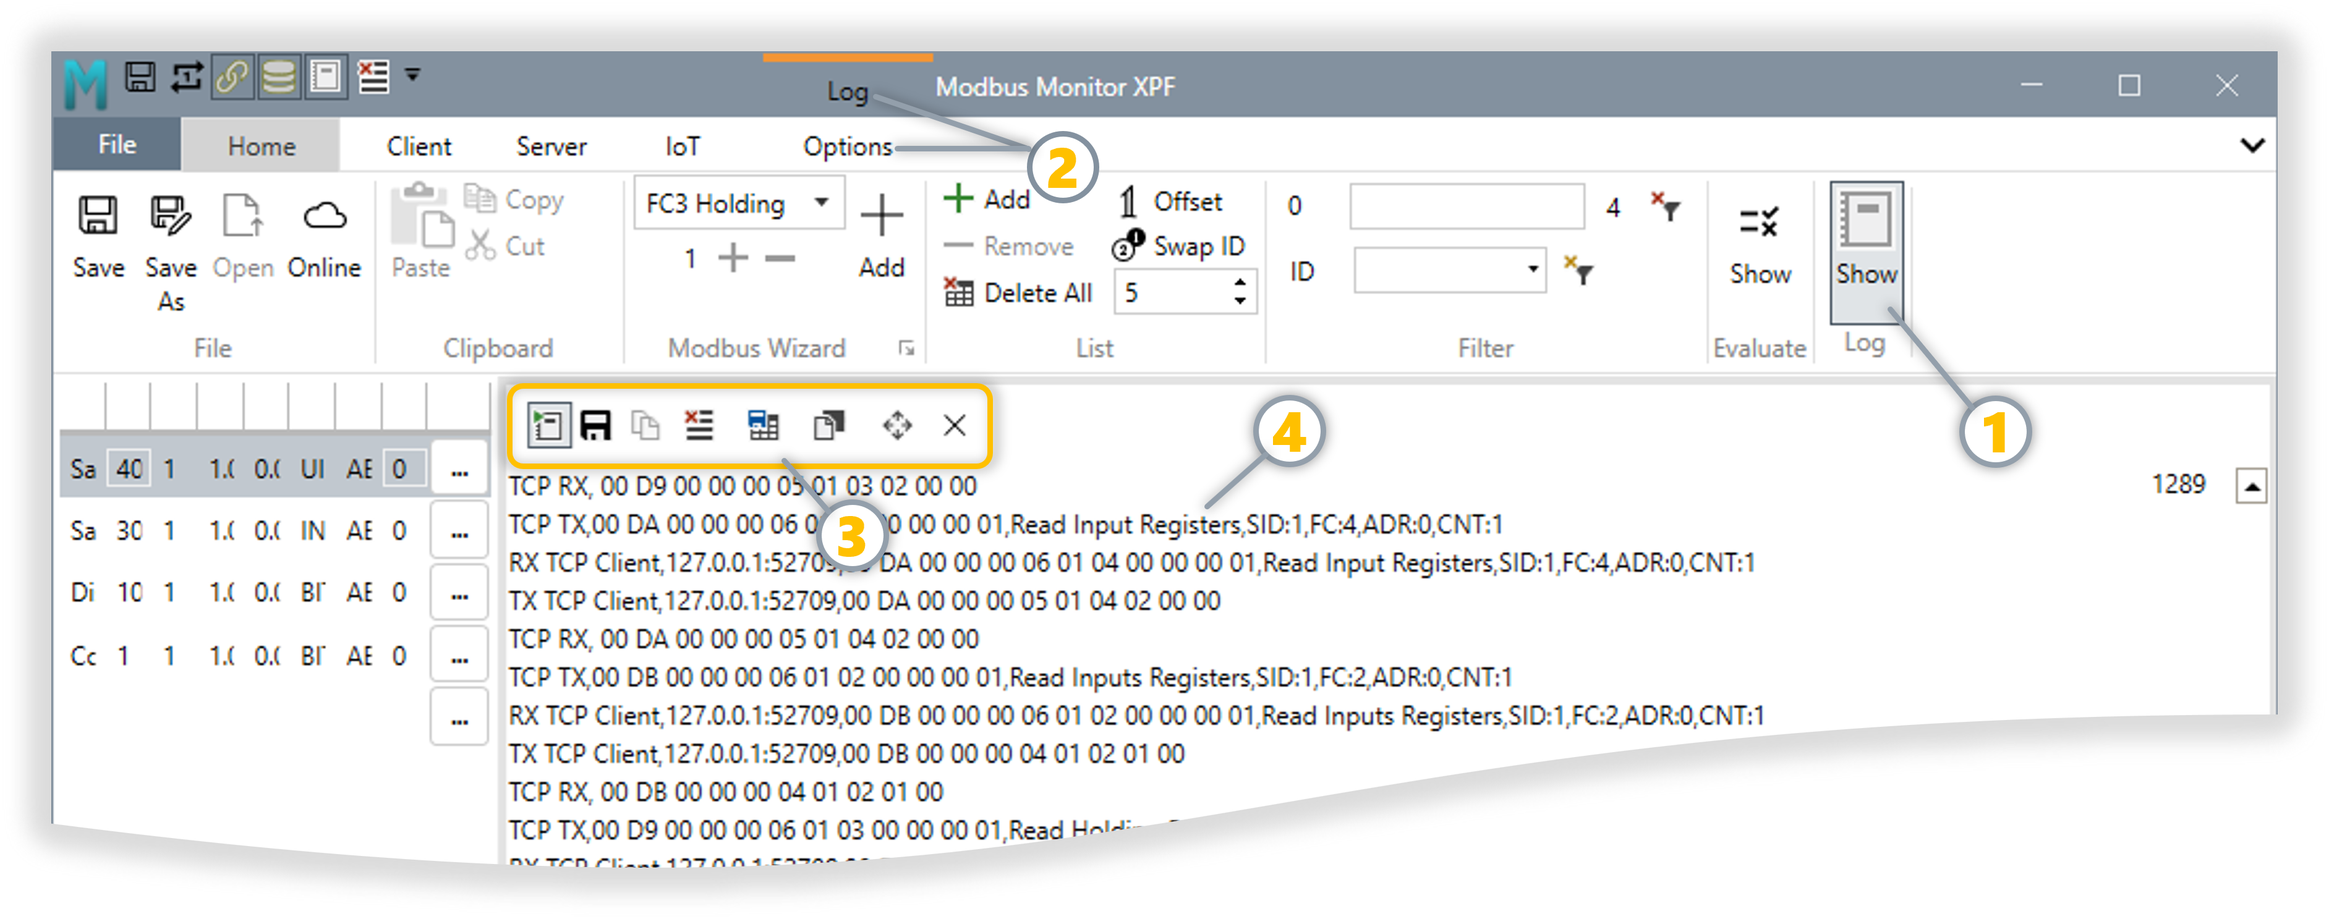
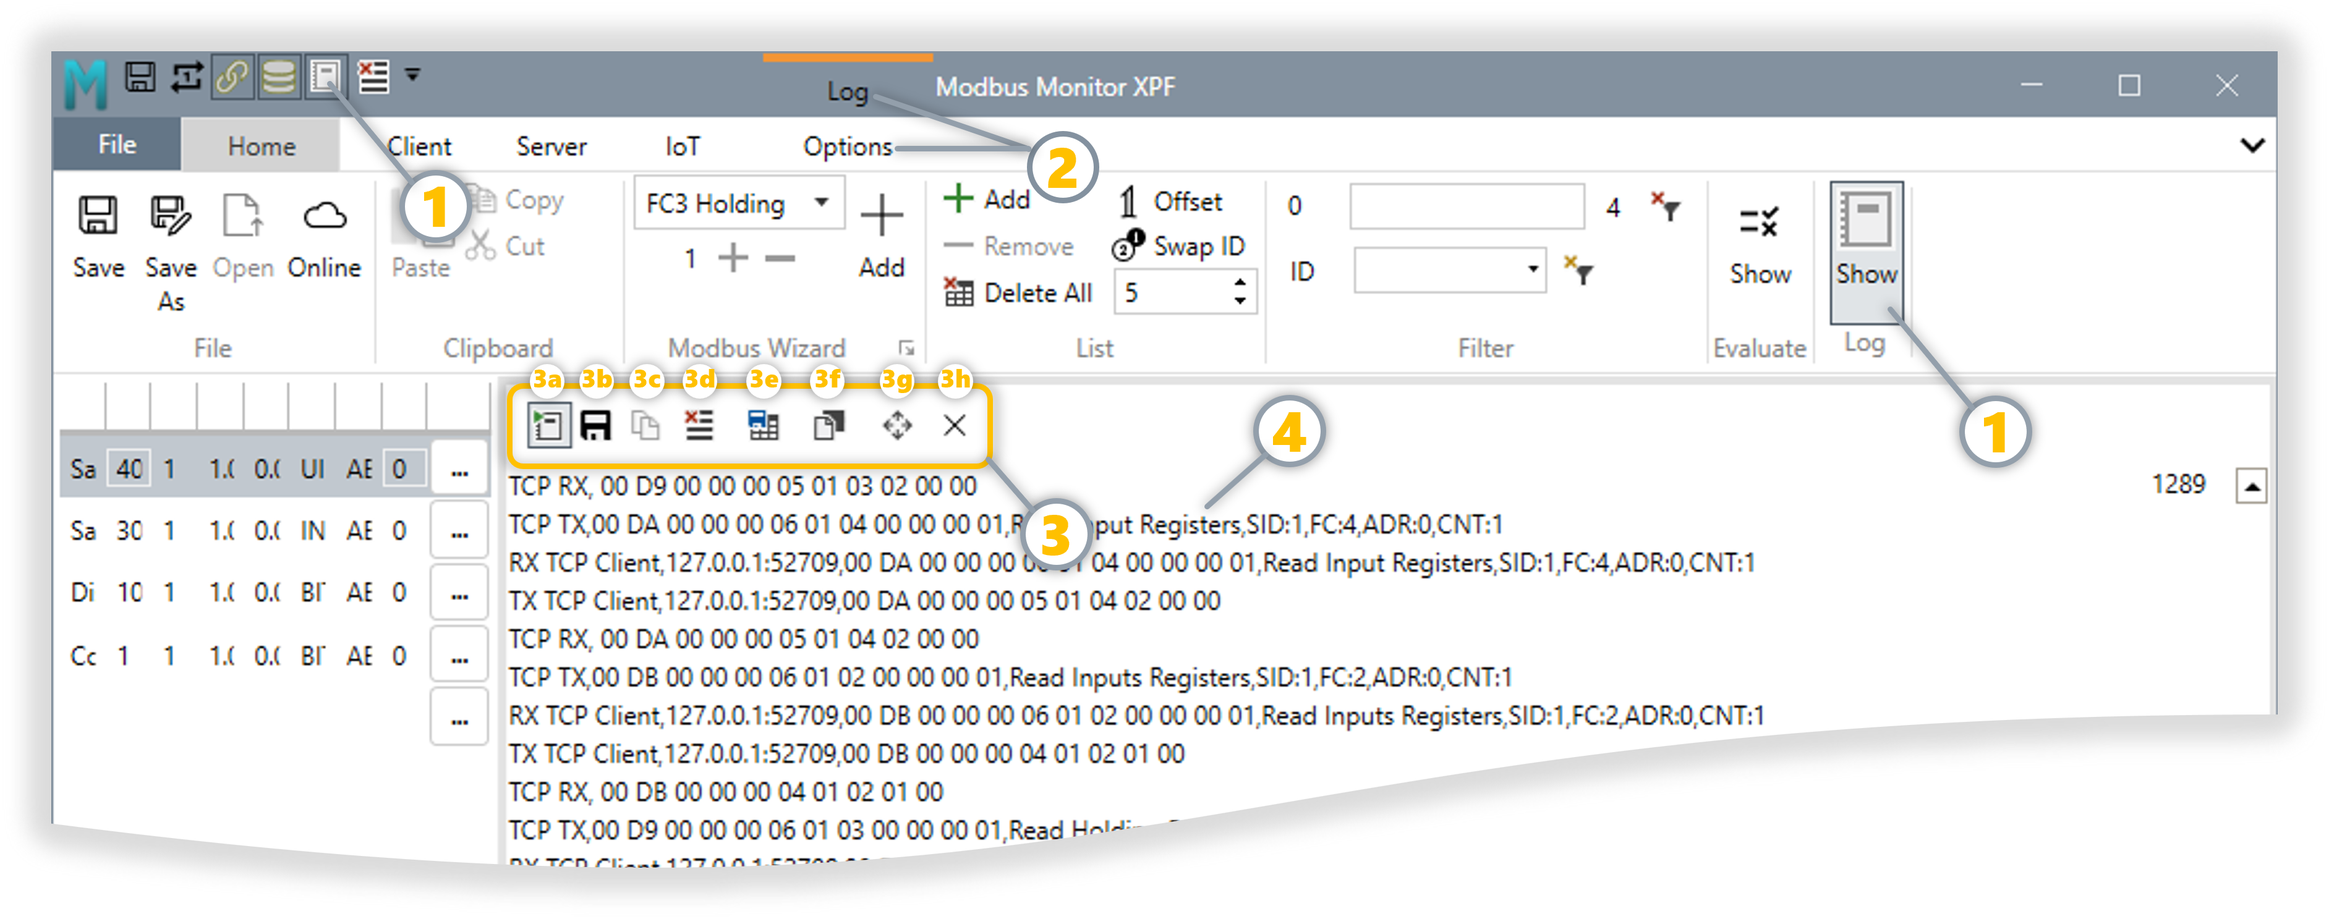
updated log group

diff --git a/docs/products/xpf/user-guide.md b/docs/products/xpf/user-guide.md
@@ -501,17 +501,17 @@ When you launch Modbus Monitor XPF for the first time, the **License window appe
 The main application window of Modbus Monitor XPF is organized into several key sections that work together to provide a comprehensive Modbus communication interface.
 
 ![XPF Application Window with numbered annotations showing Quick Access Toolbar, Ribbon Tabs, Command Groups, Dialog Launcher, and Window Portal Area](../../assets/screenshots/xpf-application-window-annotated.png){ .screenshot-shadow }
-*Figure 3.1: Main application interface showing five key areas (①②③④⑤)*
+*Figure 3.1: Main application interface showing five key areas (1, 2, 3, 4, 5)*
 
 **Interface Component Structure:**
 
 ```mermaid
 graph TB
-    QAT["① Quick Access Toolbar<br/>Customizable one-click commands<br/>Save • Open • Read • Start • Show"]
-    TABS["② Ribbon Tabs<br/>File • Home • Client • Server • IoT"]
-    GROUPS["③ Command Groups<br/>Clipboard • Modbus Wizard • List<br/>Filter • Evaluate • Log"]
-    LAUNCHER["④ Dialog Launcher<br/>Small arrows in group corners<br/>Access extended options"]
-    PORTAL["⑤ Window Portal Area<br/>Monitor Points • Log • Chart • Online Maps"]
+    QAT["1 Quick Access Toolbar<br/>Customizable one-click commands<br/>Save • Open • Read • Start • Show"]
+    TABS["2 Ribbon Tabs<br/>File • Home • Client • Server • IoT"]
+    GROUPS["3 Command Groups<br/>Clipboard • Modbus Wizard • List<br/>Filter • Evaluate • Log"]
+    LAUNCHER["4 Dialog Launcher<br/>Small arrows in group corners<br/>Access extended options"]
+    PORTAL["5 Window Portal Area<br/>Monitor Points • Log • Chart • Online Maps"]
     
     QAT -.-> TABS
     TABS -.-> GROUPS
@@ -528,9 +528,9 @@ graph TB
 **The application window contains five main areas:**
 
 !!! tip "Cross-Reference with Screenshot and Diagram"
-    Each numbered section (**①②③④⑤**) in the annotated screenshot and the diagram above corresponds to the detailed descriptions below. Use these visual guides to quickly locate features in the actual application.
+    Each numbered section (**1, 2, 3, 4, 5**) in the annotated screenshot and the diagram above corresponds to the detailed descriptions below. Use these visual guides to quickly locate features in the actual application.
 
-#### ① Quick Access Toolbar
+#### 1. Quick Access Toolbar
 
 Located at the very top, this toolbar provides one-click access to frequently used commands. **You can customize which buttons appear** by right-clicking the toolbar.
 
@@ -567,7 +567,7 @@ Located at the very top, this toolbar provides one-click access to frequently us
     
     This provides instant access to 90% of common operations without navigating through ribbon tabs.
 
-#### ② Ribbon Tabs
+#### 2. Ribbon Tabs
 
 Below the Quick Access Toolbar, you'll find multiple tabs that organize all application features:
 
@@ -587,7 +587,7 @@ Below the Quick Access Toolbar, you'll find multiple tabs that organize all appl
 
 The active tab is highlighted, making it easy to see which commands are currently available.
 
-#### ③ Command Groups (Ribbon Commands)
+#### 3. Command Groups (Ribbon Commands)
 
 In the middle section of each ribbon tab, you'll find groups of related command buttons:
 
@@ -598,7 +598,7 @@ In the middle section of each ribbon tab, you'll find groups of related command 
 
 Buttons are accompanied by icons and arrows indicating their functions and options.
 
-#### ④ Dialog Launcher
+#### 4. Dialog Launcher
 
 Small buttons in the corner of command groups that open additional settings or options:
 
@@ -608,7 +608,7 @@ Small buttons in the corner of command groups that open additional settings or o
 | **Advanced Options** | Context-specific dialogs | Access detailed settings |
 | **Extended Settings** | Beyond ribbon display | Configure advanced parameters |
 
-#### ⑤ Window Portal Area
+#### 5. Window Portal Area
 
 The main workspace at the bottom displays different information depending on the selected mode:
 
@@ -1256,43 +1256,289 @@ Click the **three dots (...)** button at the end of any monitor point row to ope
 
 **Communication Monitoring and Logging** - View and record all Modbus communication traffic for troubleshooting. Filter errors, export logs to file, and timestamp all events for accurate diagnostics.
 
-![Log Settings](../../assets/screenshots/xpf-home-log.png)
+![Log Group Interface](../../assets/screenshots/xpf-home-log.png){ .screenshot-shadow }
+*Four key areas: 1 Log Group (Home Tab), 2 Options Tab, 3 Quick Access Header (3a-3h), 4 Log Window*
 
-Switch to the Events Log Window to view **Modbus communications and general events**. The Monitoring Points area is switched to show event logs in the same area. Use the **"Log"** button to switch between both views.
+**Complete Log Controls Reference:**
 
-**Log Button Behavior:**
+All log controls in one comprehensive table. Labels **1**, **2**, **3a-3h**, and **4** correspond to the screenshot above.
 
-- **Location**: The Log button is in the **Home tab** or Ribbon Header
-- **Toggle Function**: Switches between Event Log view and Monitoring Point view
-- **Stay-On Indicator**: This button stays on during Log Monitoring
-- **Deactivate**: Click again to turn off the Communication Traffic Monitoring view portal (but communication traffic still monitors if it started already)
+| Label | Control | Location | Type | Function |
+|-------|---------|----------|------|----------|
+| **1** | **Show** | Home Tab → Log Group | Toggle Button | Show/hide Event Log view. **Pressed**: Replaces Monitor Points table with log display, Options tab appears. **Released**: Returns to Monitor Points table. |
+| **2** | **Log/Options Tab** | Contextual Ribbon | Dynamic Tab | Appears when log is active. Contains logging and filter controls. Disappears when log closed (logging continues in background if started). |
+| **2** | **Filter** | Quick Access Header or Options Tab | Text Input Box | Real-time text search. Type to filter log entries, clear to show all. Case-insensitive search. |
+| **2** | **Errors** | Options Tab | Toggle Button | **Checked**: Show errors only (timeouts, exceptions). **Unchecked**: Show all events (success + errors). |
+| **3a or 2** | **Start/Stop** | Quick Access Header or Options Tab | Toggle Button | **Start**: Begin capturing events. **Stop**: Pause recording. Auto-resumes if saved while running. |
+| **3b or 2** | **Auto Save** | Quick Access Header or Options Tab | Toggle Button | **ON**: Continuously writes log to Documents folder. **OFF**: Logs remain in memory only. |
+| **3c or 2** | **Copy All** | Quick Access Header or Options Tab | Button | Export all visible log entries to clipboard (timestamp + details). Paste into Excel, email, or text editor. Click on any log entry to enable this button. |
+| **3d  or 2** | **Clear** | Quick Access Header or Options Tab | Button | Delete all log entries from display. **Warning**: Cannot be undone. Save or copy important logs first. |
+| **3e** | **Save** | Quick Access Header | Button | Save current log entries to a file in Documents folder. |
+| **3f** | **Float** | Quick Access Header | Button | Float the Log window outside the application's main window as a separate window. |
+| **3g** | **Expand** | Quick Access Header | Button | Expand log window to full screen or restore to normal size. |
+| **3h or 2** | **Close** | Quick Access Header or Options Tab | Button | Close Log Window and return to Monitor Points (logging continues in background if started). |
+| **4** | **Log Window** | Window Portal Area | Display Panel | Shows timestamped communication events. Replaces Monitor Points table when log is active. |
 
-**Activating Logging:**
+!!! tip "Quick Start Workflow"
+    1. Click **Show** (1) → Log window appears (4), Options tab (2) opens
+    2. Click **Start** (3a) → Begin recording Modbus traffic
+    3. Optional: Toggle **Errors** (3f) or type in **Filter** (3g) to focus on specific events
+    4. Click **Copy All** (3b) to export, or **Save** (3d) for continuous file backup
+    5. Click **Clear** (3c) between test runs to remove old entries
+    6. Click **Close** (3e) or **Show** (1) again to return to Monitor Points
 
-1. You can enable logging using a configuration or project file
-2. Or by clicking the **Start button** in the contextual Log Options tab
-3. Once enabled, logging remains active during Log Monitoring
+##### Log Entries Display (Window Portal Area)
 
-**Communication Log Features:**
+**Where Log Entries Appear** - When you click the **Show** button (1), the **Window Portal Area** (the main workspace below the ribbon) switches from showing the Monitor Points table to displaying the **Event Log**.
 
-| Button | Function | Description |
-|--------|----------|-------------|
-| **Start/Stop** | Control logging | Click **Start** to begin communication logging in comma-delimited text format. Click **Stop** to pause logging. |
-| **Clear** | Remove entries | Clear all logs from the display window |
-| **Save As** | Export logs | Save displayed log to text file for analysis or archival |
-| **Errors** | Error filter | Show **only communication events with Errors** - filters out successful transactions |
-| **Scroll** | Auto-scroll | Scroll to the **latest communication log** entry automatically |
-| **Timestamps** | UTC time | All events in the window are **time-stamped with UTC** for accurate correlation |
+**Log Entry Display Characteristics:**
+
+| Feature | Description | Details |
+|---------|-------------|---------|
+| **Location** | Window Portal Area | Same area where Monitor Points table normally displays |
+| **Entry Format** | Timestamped rows | Each log entry shows: **Timestamp** • **Event Type** • **Details** • **Status** |
+| **Timestamps** | UTC format | All events time-stamped with UTC for accurate correlation across time zones |
+| **Auto-Update** | Real-time | New entries appear immediately as communication occurs (when logging is started) |
+| **Scroll View** | Vertical scrolling | Older entries scroll up as new ones arrive at bottom |
+| **Capacity** | Memory-based | Limited to 10000 entries before deleting old items (clear periodically for performance) |
+
+**What Gets Logged:**
+
+- **Modbus Requests**: Function code, address, unit ID, data sent
+- **Modbus Responses**: Data received, byte count, success/failure status  
+- **Communication Errors**: Timeouts, CRC errors, exception codes, connection failures
+- **System Events**: Connection established/closed, configuration changes, poll cycle start/stop
+- **Timestamps**: Precise timing for troubleshooting timing-related issues
+
+!!! example "Sample Log Entries"
+    **Complete Poll Cycle with System Events:**
+    ```
+    07:19:56:511585, Poll Once: True
+    07:19:56:766466, Client-STARTING
+    07:19:58:820433, Server Found 127.0.0.1:502
+    07:19:58:825077, Client-RUNNING
+    ```
+    
+    **Successful Read (Holding Registers):**
+    ```
+    07:19:58:833472, TCP TX, 00 01 00 00 00 06 01 03 00 00 00 01, Read Holding Registers, SID:1, FC:3, ADR:0, CNT:1
+    07:19:58:861535, TCP RX, 00 01 00 00 00 05 01 03 02 00 00
+    ```
+    
+    **Modbus Exception Error 1 - Illegal Function (Input Registers):**
+    ```
+    07:19:58:908104, TCP TX, 00 02 00 00 00 06 01 04 00 00 00 01, Read Input Registers, SID:1, FC:4, ADR:0, CNT:1
+    07:19:58:923572, TCP RX, 00 02 00 00 00 03 01 84 01
+    07:19:58:926070, Illegal Function, ERR:1, SID:1 FC:84, Sample Input Register, 300001, 1, 1, 0, INT16, ABCD_BE, 30001,,
+    ```
+    
+    **Modbus Exception Error 1 - Illegal Function (Discrete Inputs):**
+    ```
+    07:19:58:955758, TCP TX, 00 03 00 00 00 06 01 02 00 00 00 01, Read Inputs Registers, SID:1, FC:2, ADR:0, CNT:1
+    07:19:58:970172, TCP RX, 00 03 00 00 00 03 01 82 01
+    07:19:58:970512, Illegal Function, ERR:1, SID:1 FC:82, Discrete Input Register, 100001, 1, 1, 0, BIT, ABCD_BE, 1,,
+    ```
+    
+    **Modbus Exception Error 1 - Illegal Function (Coils):**
+    ```
+    07:19:59:001799, TCP TX, 00 04 00 00 00 06 01 01 00 00 00 01, Read Coils, SID:1, FC:1, ADR:0, CNT:1
+    07:19:59:016788, TCP RX, 00 04 00 00 00 03 01 81 01
+    07:19:59:017054, Illegal Function, ERR:1, SID:1 FC:81, Coil Register, 1, 1, 1, 0, BIT, ABCD_BE, 1,,
+    ```
+    
+    **Client Stop:**
+    ```
+    07:20:00:052399, Client-STOPPED
+    ```
+
+**Viewing Tips:**
+
+- **Recent entries appear at bottom** - Scroll down to see latest events
+- **Filtering reduces clutter** - Use Errors toggle (④) to hide successful transactions
+- **Text search narrows focus** - Type in Filter box (④) to find specific device, register, or error type
+- **Copy for analysis** - Click Copy All (③) to export all visible entries to clipboard
+
+##### Understanding Log View Toggle
+
+| Control | Location | Function | State Indicator |
+|---------|----------|----------|-----------------|
+| **Show Button** | Home tab → Log Group | Toggles between Monitor Points and Event Log views | Button stays pressed/highlighted when Log view is active |
+| **Quick Access** | Can add to Quick Access Toolbar | One-click access without navigating to Home tab | Recommended for frequent troubleshooting |
+
+**View Behavior:**
+
+- **Click Show**: Monitor Points table → Event Log display (button stays pressed)
+- **Click Show Again**: Event Log → Monitor Points table (button released)
+- **Shared Portal**: Both views occupy the same Window Portal Area
+- **Data Preserved**: Switching views doesn't lose Monitor Points or Log data
+
+!!! tip "Quick Access Recommendation"
+    Right-click the **Show** button and add it to your Quick Access Toolbar for one-click switching during active troubleshooting sessions. 
+
+##### Complete Interface Overview
+
+**Visual relationship between all four labeled sections:**
+
+```mermaid
+graph TB
+    HOME["① LOG GROUP<br/>(Home Tab)<br/>─────────<br/>Show Button"]
+    
+    CLICK1[" Click Show "]
+    
+    OPTIONS["② OPTIONS TAB<br/>(Contextual Ribbon)<br/>─────────<br/>Contains ③ and ④"]
+    
+    subgraph GROUPS["Options Tab Contains:"]
+        direction LR
+        LOG["③ LOG GROUP<br/>Start/Stop<br/>Copy All<br/>Clear<br/>Save"]
+        
+        FILTER["④ FILTER GROUP<br/>Errors Toggle<br/>Text Filter"]
+    end
+    
+    WINDOW["WINDOW PORTAL AREA<br/>─────────<br/>Log Entries Display<br/>(timestamped events)"]
+    
+    HOME -->|Click| CLICK1
+    CLICK1 -->|Opens| OPTIONS
+    OPTIONS -.->|Contains| LOG
+    OPTIONS -.->|Contains| FILTER
+    LOG -->|Controls| WINDOW
+    FILTER -->|Filters| WINDOW
+    
+    CLICK2[" Click Show Again "]
+    OPTIONS -->|Close| CLICK2
+    CLICK2 -->|Returns to| MONITOR["Monitor Points Table"]
+    
+    style HOME fill:#e3f2fd,stroke:#1976d2,stroke-width:3px,color:#000
+    style OPTIONS fill:#fff3e0,stroke:#f57c00,stroke-width:3px,color:#000
+    style LOG fill:#c8e6c9,stroke:#388e3c,stroke-width:2px,color:#000
+    style FILTER fill:#f3e5f5,stroke:#7b1fa2,stroke-width:2px,color:#000
+    style WINDOW fill:#fff9c4,stroke:#f57f17,stroke-width:3px,color:#000
+    style GROUPS fill:#f5f5f5,stroke:#666,stroke-width:2px
+    style CLICK1 fill:#bbdefb,stroke:#1976d2,stroke-width:1px
+    style CLICK2 fill:#ffccbc,stroke:#d84315,stroke-width:1px
+    style MONITOR fill:#e8f5e9,stroke:#388e3c,stroke-width:2px
+```
+
+**Key Relationships:**
+
+- **Section ①** (Home Tab) triggers everything - click **Show** to begin
+- **Section ②** (Options Tab) appears automatically and **contains sections ③ and ④**
+- **Section ③** (Log Group in Options) provides **recording control buttons**
+- **Section ④** (Filter Group in Options) provides **search and filter controls**
+- **Both 3 and 4** affect what you see in the **Window Portal Area** (log entries display)
+
+##### Logging Workflow
+
+**Complete logging session workflow:**
+
+```mermaid
+graph TB
+    START["1. Click 'Show' Button<br/>(Home Tab → Log Group)"]
+    
+    OPTIONSTAB["2. Options Tab Appears<br/>(Contextual Ribbon Tab)"]
+    
+    STARTLOG["3. Click 'Start' Button<br/>(Options Tab → Log Group)"]
+    
+    LOGGING["4. Event Log Recording<br/>• Modbus traffic captured<br/>• Timestamps added<br/>• Errors highlighted"]
+    
+    FILTER["5. Apply Filters (Optional)<br/>• Toggle 'Errors' for problems only<br/>• Type text in Filter box<br/>• View focused results"]
+    
+    EXPORT["6. Export Logs (Optional)<br/>• Click 'Copy All' → Clipboard<br/>• Enable 'Save' → Auto-save to file<br/>• Paste into analysis tools"]
+    
+    STOPLOG["7. Click 'Stop' Button<br/>(Pause logging)"]
+    
+    CLOSE["8. Click 'Close' or 'Show'<br/>(Return to Monitor Points)"]
+    
+    START ==> OPTIONSTAB
+    OPTIONSTAB ==> STARTLOG
+    STARTLOG ==> LOGGING
+    LOGGING ==> FILTER
+    FILTER ==> EXPORT
+    EXPORT ==> STOPLOG
+    STOPLOG ==> CLOSE
+    
+    style START fill:#e3f2fd,stroke:#1976d2,stroke-width:2px
+    style OPTIONSTAB fill:#fff9c4,stroke:#f57f17,stroke-width:2px
+    style STARTLOG fill:#c8e6c9,stroke:#388e3c,stroke-width:2px
+    style LOGGING fill:#f3e5f5,stroke:#7b1fa2,stroke-width:2px
+    style FILTER fill:#e1f5fe,stroke:#0277bd,stroke-width:2px
+    style EXPORT fill:#fff3e0,stroke:#ef6c00,stroke-width:2px
+    style STOPLOG fill:#ffccbc,stroke:#d84315,stroke-width:2px
+    style CLOSE fill:#ffebee,stroke:#c62828,stroke-width:2px
+```
+
+##### Practical Use Cases
+
+!!! example "Troubleshooting Connection Issues"
+    **Scenario:** Device not responding
+    
+    **Steps:**
+    1. Click **Show** → Event Log appears
+    2. Click **Start** in Options tab
+    3. Click **Errors** toggle to filter errors only
+    4. Type device name or address in **Filter** box
+    5. Attempt connection from Client tab
+    6. Review log entries for timeout/error messages
+    7. Click **Copy All** to send to support team
+    
+    **Benefits:** Isolated error messages with exact timestamps
+
+!!! example "Monitoring Communication Health"
+    **Scenario:** Verify stable polling operation
+    
+    **Steps:**
+    1. Start logging before beginning poll cycle
+    2. Enable **Save** toggle for automatic file backup
+    3. Run polling for extended period (hours/days)
+    4. Periodically check **Errors** toggle to verify no issues
+    5. Review saved log file for patterns or intermittent errors
+    
+    **Benefits:** Long-term reliability validation with automatic archival
+
+!!! example "Protocol Analysis for Custom Devices"
+    **Scenario:** Reverse-engineering unknown device behavior
+    
+    **Steps:**
+    1. Enable logging and **Save** toggle
+    2. Send test commands to device
+    3. Use **Filter** to search for specific function codes
+    4. Click **Copy All** → Paste into protocol analyzer
+    5. Compare request/response patterns
+    
+    **Benefits:** Complete transaction history for protocol documentation
+
+##### Best Practices
 
 !!! tip "Logging Best Practices"
-    **Hints:**
+    **Optimize Your Workflow:**
     
-    - If the file or project is saved, **traffic monitoring will automatically start** the next time the project is loaded
-    - Communication traffic monitoring will **continue if it has already begun**, even though the communication traffic view is hidden
-    - The Log button only toggles the **view** - logging itself runs independently
+    - **Save Before Logging**: Enable the **Save** toggle before starting long monitoring sessions
+    - **Filter Proactively**: Use **Errors** toggle during troubleshooting to reduce noise
+    - **Clear Regularly**: Click **Clear** between test runs to avoid confusion
+    - **Text Search**: Use specific keywords (register address, function code, device name) for precise filtering
+    - **Quick Access**: Add **Show** and **Clear** to Quick Access Toolbar for rapid access
+    - **Project Auto-Start**: Saved projects remember logging state - automatically resumes if it was active
 
 !!! warning "Performance Impact"
-    The Events log consumes **more processing power and memory** to log data at a high rate. Therefore, **turn off this feature when not needed** for optimal performance, especially during long-term monitoring or when polling many registers at high speed.
+    **Resource Considerations:**
+    
+    - Event logging consumes **CPU cycles** and **memory** to capture high-speed communication
+    - **High poll rates** (many registers per second) increase logging overhead significantly
+    - **Disable logging** when not actively troubleshooting for optimal performance
+    - **Clear logs periodically** during long sessions to free memory
+    - **Text filtering** searches all entries in real-time - may slow down with thousands of entries
+    
+    **Recommendation:** Turn off logging during normal production operation unless you need historical records.
+
+!!! info "Data Persistence"
+    **What Gets Saved:**
+    
+    - **With Save Toggle ON**: Log file continuously updated in Documents folder
+    - **With Save Toggle OFF**: Logs exist only in memory, cleared when:
+        - You click **Clear** button
+        - You close XPF application
+        - You switch to another configuration file
+    
+    **File Location:** Check your Windows Documents folder for auto-saved log files (typically named with timestamp).
 
 #### Online Maps
 
